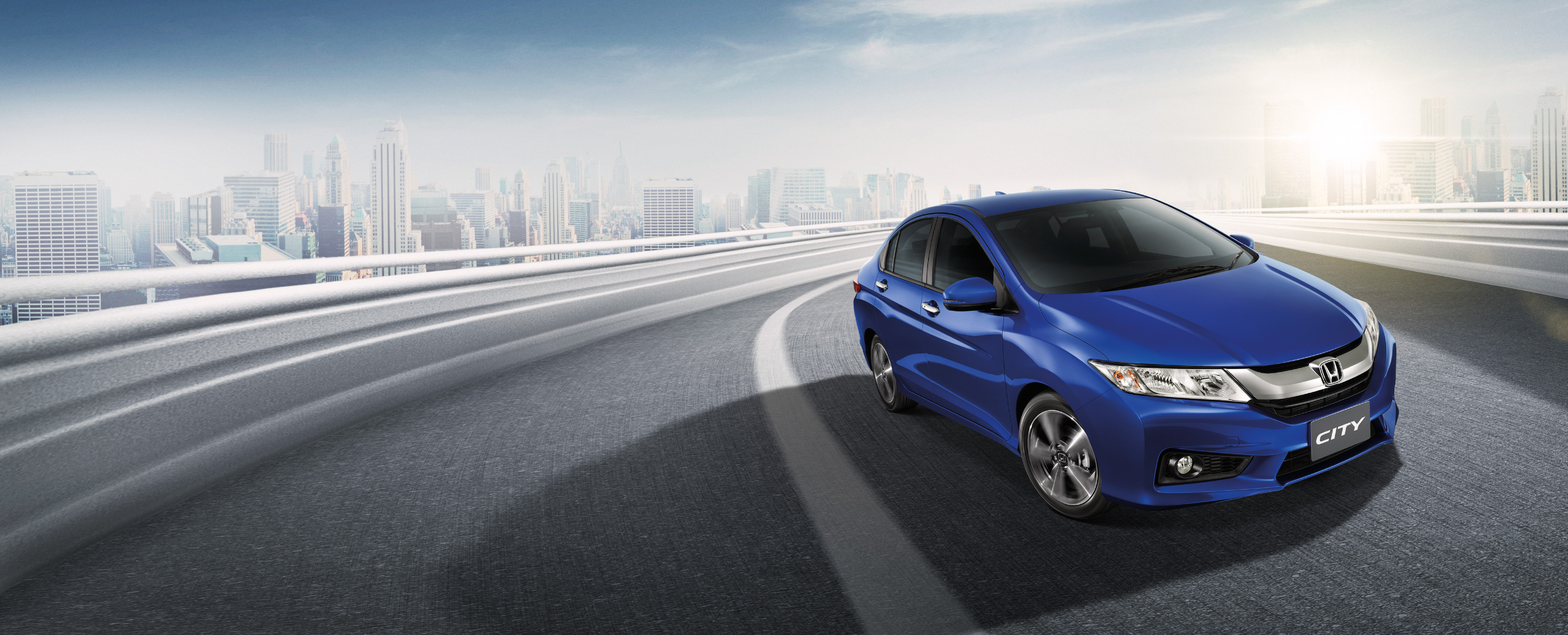
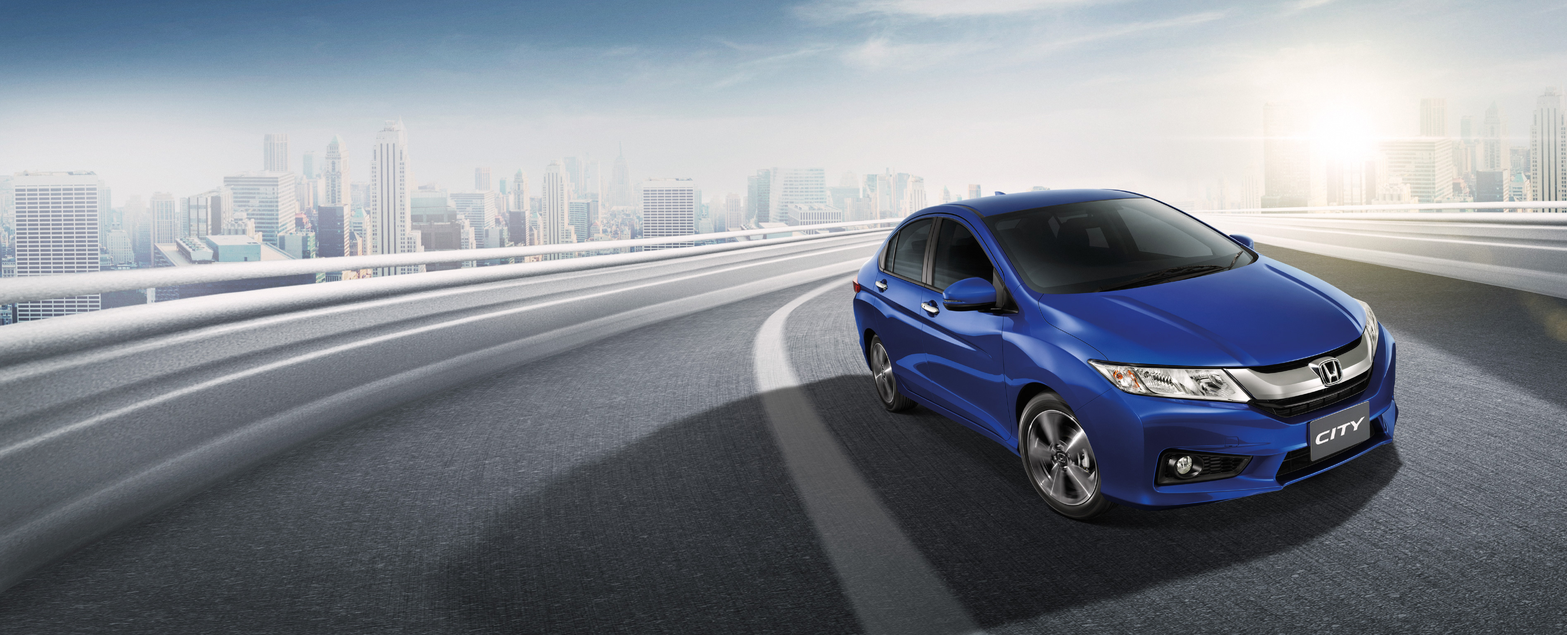
adjust zoom

diff --git a/HondaBest/HondaBest/Libs/JAPanoView/JAPanoView.m b/HondaBest/HondaBest/Libs/JAPanoView/JAPanoView.m
@@ -159,15 +159,19 @@
 	[self addSubview:_image4];
 	[self addSubview:_image5];
 	[self addSubview:_image6];
-	_zoomFactor=_referenceSide;
+//	_zoomFactor=_referenceSide;
+	_zoomFactor=_referenceSide+220;
 	_hAngle=0;
-	_vAngle=0;
+//	_vAngle=0;
+	_vAngle=-M_PI_4/2.0;
 	_leftLimit=0;
 	_rightLimit=0;
 	_upLimit=M_PI_2;
 	_downLimit=M_PI_2;
-	_minZoom=0;
-	_maxZoom=100;
+//	_minZoom=0;
+//	_maxZoom=100;
+	_minZoom=16;
+	_maxZoom=50;
 	self.userInteractionEnabled=YES;
 	UIPanGestureRecognizer *panGR=[[UIPanGestureRecognizer alloc] initWithTarget:self action:@selector(didPan:)];
 	[self addGestureRecognizer:panGR];
